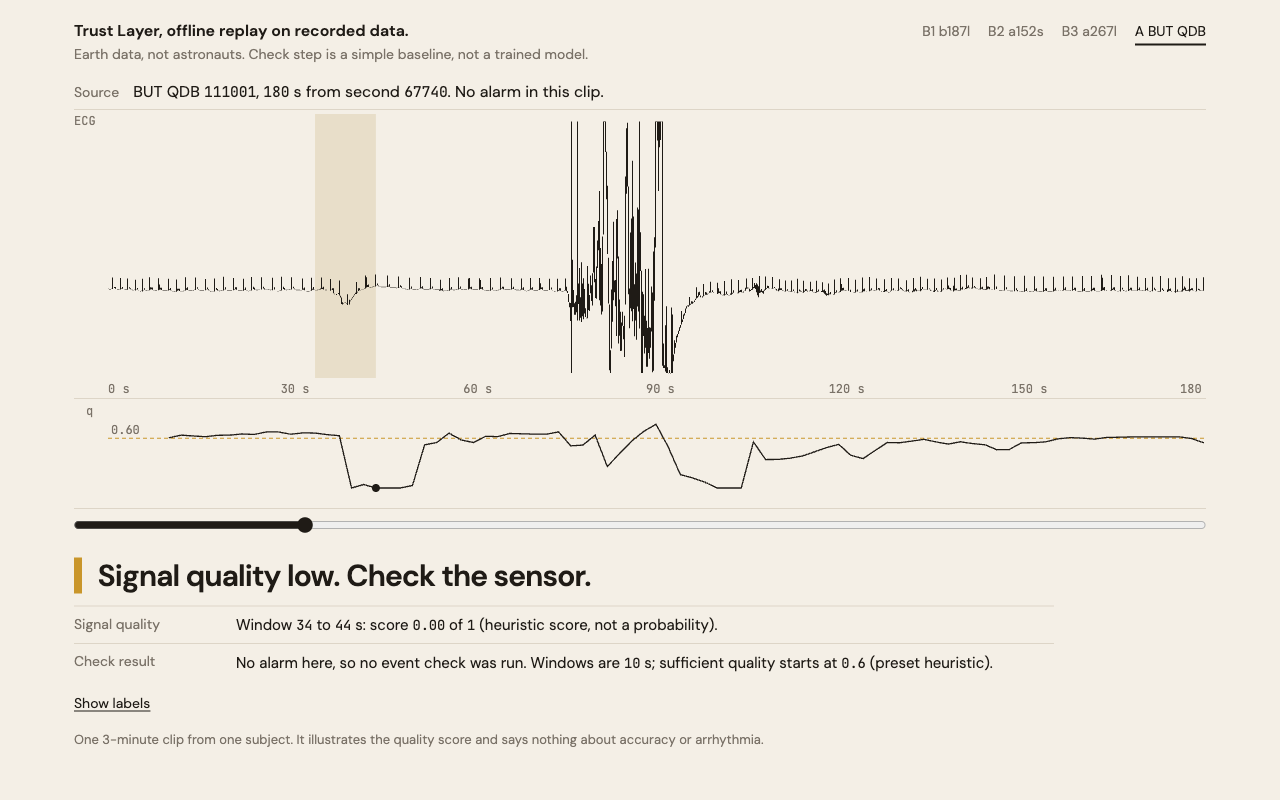
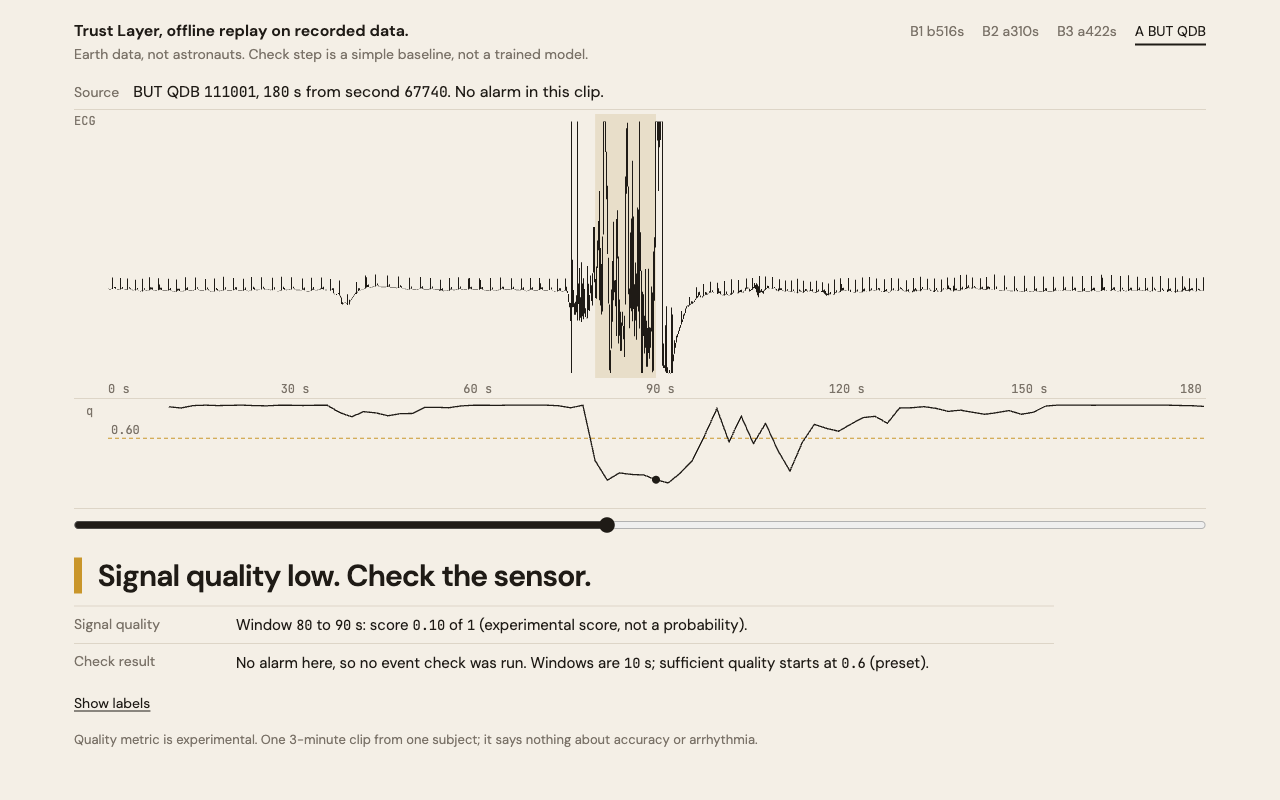
Log: two-status table, quality rule v2, freeze 1dad545; refreshed screenshots

diff --git a/progress/logs/Rafael.md b/progress/logs/Rafael.md
@@ -76,3 +76,25 @@
 - В B1 V0 нашёл 3 удара (ЧСС 18) при PPG 50 уд/мин: возможна ошибка детектора, не проверено; правило выбора записи не менялось.
 - Playwright создал `.playwright-mcp/` в корне, в git не добавлял.
 Следующий шаг: блок C (признаки, логистическая регрессия), затем при желании поправить q, если вы разрешите калибровать порог на BUT.
+
+## 2026-11-15 04:45 | Rafael (агент Claude Code) | Решения по B и C: два статуса, починка q, заморозка (коммит 1dad545)
+Сделано: блок B закоммичен отдельно (c593eb6). Серый отключён: статусы red/yellow, жёлтый = тревога сохранена. Правило качества q переписано (v2), модель и пороги заморожены в коммите 1dad545: `models/quality_v2.json`, `models/v3_logreg.json`, пороги Q_GOOD=0.60 (не менялся) и T_RED=0.5 (заданы заранее, на validation не подбирались). Hold-out не открывался. Основание: решения лида от 15.11 после отчёта по B и C.
+Результат:
+**Двухстатусная таблица, V3 (22 признака + тип тревоги), validation n=150, bootstrap по записям B=2000** (команда `python scripts/make_features.py && python scripts/train_eval_v3.py`):
+- true: red 11, yellow 47 (всего 58); не подтверждено: red 6, yellow 86 (всего 92).
+- [Точно] доля настоящих в красной группе 11/17 = 0.647, 95% ДИ [0.412, 0.867]; в жёлтой 47/133 = 0.353 [0.274, 0.433]; красная группа = 17/150 = 11.3% всех тревог [6.0%, 16.7%].
+- Без типа тревоги (V3b): red true 10 / не подтв. 8; настоящих в красной 10/18 = 0.556 [0.333, 0.773].
+- Сравнение на той же таблице (группа «предсказано настоящее» = red), validation n=150: (а) сохранять всё: 58/92, доля настоящих 0.387; (б) только тип: red 35 true / 12 не подтв., доля настоящих в red 0.745, в yellow 23/103 = 0.223; (в) V0 ECG-only: red 36 / 40, доля 0.474, yellow 22/74 = 0.297. [Точно] V3 НЕ лучше «только типа»: доля настоящих в красной 0.647 против 0.745, а красная группа в 3 раза меньше (17 против 47 тревог). Негативный результат для V3 на данном шаге.
+- Причина малого красного охвата (оценка по данным, не доказано): q<0.60 у 101 из 150 тревог validation (67%), при старом q было 34/150 (23%). Это перенос шлюза BUT→CinC: [Точно] он бракует две трети реанимационных записей, поэтому красных мало.
+**Правило качества v2** (`scripts/quality_design.py`, `quality_loro.py`, `quality_report.py`, `src/trust/qual.py`):
+- [Точно] Диагноз для окон 78–88 и 80–90 с (111001, они целиком класс 3): в старом q вклад «доля мощности 20–40 Гц» был 0.99 (hf 0.002 против 0.09 у чистого сигнала): гигантский низкочастотный артефакт (сырой сигнал упирается в ±32767) уменьшает долю высоких частот, и старая формула принимает его за «чистый». Признаки, которые его показывают: доля полосы QRS 5–15 Гц 0.019 против 0.33 в норме, эксцесс 0.94 против ~29, нерегулярность RR (cv 0.87 против 0.05). Клиппинг после ресемплинга до 250 Гц не виден (sat≈0.001 всюду).
+- Новое правило: логистическая регрессия на 9 безразмерных признаках (плоская линия, доля <0.5 Гц, 5–15, 20–40, 40–100 Гц, эксцесс, число ударов, доля правдоподобных RR, CV RR); q = 1 − P(консенсусный класс 2 или 3). Обучение только на чистых 10 с окнах 100001 и 105001 (800/800/422 окон классов 1/2/3, ≤400 на класс и запись, seed 0). Вариант (класс 3 против остальных или 2+3 против 1) выбран по leave-one-record-out между 100001 и 105001 (вариант 2+3: recall класса 3 100% в обе стороны, ложных флагов на классе 1 18% и 2%; вариант «только класс 3»: recall 5% в одну сторону).
+- [Точно] ТЕСТ на 111001 (не использовался при проектировании, один прогон выбранного варианта), чистые 10 с окна, доля ниже 0.60, старый q → новый q: класс 1 (n=400) 56.0% → 0.5%; класс 2 (n=400) 92.8% → 45.8%; класс 3 (n=292) 61.6% → 73.3%. AUROC класс 3 против 1: 0.544 → 0.964. На обучающих записях (в выборке): 100001 класс 1 51.0% → 19.2%, класс 3 (n=22) 0.0% → 100%; 105001 класс 1 80.8% → 15.8%, класс 3 (n=400) 87.2% → 100%.
+- [Точно] Окна фрагмента 111001 (конец окна, с): 76–86 q 0.163, 78–88 0.157, 80–90 0.099, 82–92 0.061 — все ниже порога (было 0.565/0.683/0.768/0.495). Помогло: порог 0.60 не менялся.
+Не работает / риск:
+- [Точно] Перенос на CinC плох: q бракует 67% тревог validation. Шлюз обучен на одном носимом отведении 1000 Гц (3 субъекта в обучении+тесте: 100, 105, 111), а CinC это реанимация 250 Гц. Пользоваться q на CinC как есть нельзя без отдельной проверки; V1/V2 по docs/05 это не решает.
+- 26.7% чистых окон класса 3 в 111001 по-прежнему проходят порог (recall 73.3%), 45.8% окон класса 2 помечаются как плохие. Субъектов в тесте один; обучающие записи в выборке дают AUROC≈1.0 (переобучение возможно).
+- Сцена A теперь: class 3 окна во фрагменте 8/8 ниже порога, class 1 1/40, class 2 5/38 (по модальному классу окна); подпись «Quality metric is experimental».
+- V3 пока НЕ подключён к экрану демо (экран использует V0), q в V3 — новый BUT-обученный.
+- Гипотеза «серый бесполезен» подтверждена: после отключения серого пороговых параметров, подобранных на validation, нет (Q_GOOD и T_RED заданы заранее).
+Следующий шаг: ждать «freeze» от лида и один раз открыть hold-out. До этого решить, исправлять ли перенос q на CinC (иначе красная группа остаётся ≈11% тревог).
